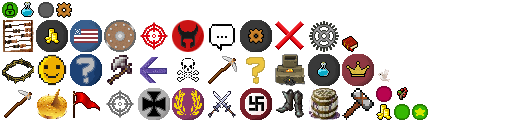
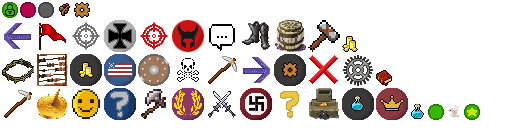
ChatboxWindow: Implement sound & SendMessageButton

Changed region(s): [[0.4688, 0.1562, 0.9375, 0.9375], [0.0, 0.0, 0.3438, 0.9375]]

diff --git a/core/src/main/java/me/rhin/openciv/ui/window/type/ChatboxWindow.java b/core/src/main/java/me/rhin/openciv/ui/window/type/ChatboxWindow.java
@@ -12,6 +12,7 @@ import me.rhin.openciv.listener.SendChatMessageListener;
 import me.rhin.openciv.shared.packet.type.SendChatMessagePacket;
 import me.rhin.openciv.ui.background.ColoredBackground;
 import me.rhin.openciv.ui.button.type.CloseWindowButton;
+import me.rhin.openciv.ui.button.type.SendMessageButton;
 import me.rhin.openciv.ui.label.CustomLabel;
 import me.rhin.openciv.ui.window.AbstractWindow;
 
@@ -21,6 +22,7 @@ public class ChatboxWindow extends AbstractWindow implements SendChatMessageList
 	private ColoredBackground coloredBackground;
 	private CloseWindowButton closeWindowButton;
 	private TextField chatTextField;
+	private SendMessageButton sendMessageButton;
 
 	public ChatboxWindow() {
 		super.setBounds(4, 20, 225, 250);
@@ -50,14 +52,17 @@ public class ChatboxWindow extends AbstractWindow implements SendChatMessageList
 			}
 		});
 
+		sendMessageButton = new SendMessageButton(chatTextField.getWidth() + 3, -1, 32, 32);
+		addActor(sendMessageButton);
+
 		// Close info buttons window
 		Civilization.getInstance().getWindowManager().toggleWindow(new InfoButtonsWindow());
 
-		for(String message : Civilization.getInstance().getChatHandler().getSentMessages()) {
+		for (String message : Civilization.getInstance().getChatHandler().getSentMessages()) {
 			System.out.println(message);
 			addMessage(message);
 		}
-		
+
 		Civilization.getInstance().getEventManager().addListener(SendChatMessageListener.class, this);
 	}
 
@@ -93,19 +98,19 @@ public class ChatboxWindow extends AbstractWindow implements SendChatMessageList
 		return false;
 	}
 
-	private void sendMessage() {
+	@Override
+	public void onSentChatMessage(SendChatMessagePacket packet) {
+		String messageText = packet.getPlayerName() + ": " + packet.getMessage();
+		addMessage(messageText);
+	}
+
+	public void sendMessage() {
 		String message = chatTextField.getText();
 		SendChatMessagePacket packet = new SendChatMessagePacket();
 		packet.setMessage(message);
 		Civilization.getInstance().getNetworkManager().sendPacket(packet);
 
 		chatTextField.setText("");
-	}
-
-	@Override
-	public void onSentChatMessage(SendChatMessagePacket packet) {
-		String messageText = packet.getPlayerName() + ": " + packet.getMessage();
-		addMessage(messageText);
 	}
 
 	public void addMessage(String messageText) {

diff --git a/core/src/main/java/me/rhin/openciv/ui/button/type/SendMessageButton.java b/core/src/main/java/me/rhin/openciv/ui/button/type/SendMessageButton.java
@@ -4,24 +4,21 @@ import com.badlogic.gdx.graphics.g2d.Batch;
 import com.badlogic.gdx.graphics.g2d.Sprite;
 
 import me.rhin.openciv.asset.TextureEnum;
-import me.rhin.openciv.game.notification.AbstractNotification;
 import me.rhin.openciv.ui.button.Button;
+import me.rhin.openciv.ui.window.type.ChatboxWindow;
 
-public class ActNotificationButton extends Button {
+public class SendMessageButton extends Button {
 
-	private AbstractNotification notification;
 	private Sprite iconSprite;
 
-	public ActNotificationButton(AbstractNotification notification, float x, float y, float width, float height) {
+	public SendMessageButton(float x, float y, float width, float height) {
 		super(TextureEnum.UI_BUTTON_ICON, "", x, y, width, height);
 
 		this.hoveredSprite = TextureEnum.UI_BUTTON_ICON_HOVERED.sprite();
 		hoveredSprite.setBounds(x, y, width, height);
 
-		this.iconSprite = TextureEnum.ICON_GOTO_LEFT.sprite();
+		this.iconSprite = TextureEnum.ICON_GOTO_RIGHT.sprite();
 		iconSprite.setBounds(x + (width / 2) - (24 / 2), y + (height / 2) - (24 / 2), 24, 24);
-
-		this.notification = notification;
 	}
 
 	@Override
@@ -33,13 +30,14 @@ public class ActNotificationButton extends Button {
 	@Override
 	public void setPosition(float x, float y) {
 		super.setPosition(x, y);
-		//iconSprite.setPosition(x + getWidth() / 2 - iconSprite.getWidth() / 2,
-		//		y + getHeight() / 2 - iconSprite.getHeight() / 2);
+		// iconSprite.setPosition(x + getWidth() / 2 - iconSprite.getWidth() / 2,
+		// y + getHeight() / 2 - iconSprite.getHeight() / 2);
 	}
 
 	@Override
 	public void onClick() {
-		notification.act();
+		ChatboxWindow window = (ChatboxWindow) getParent();
+		window.sendMessage();
+		System.out.println("yo");
 	}
-
 }

diff --git a/core/src/main/java/me/rhin/openciv/networking/chat/ChatHandler.java b/core/src/main/java/me/rhin/openciv/networking/chat/ChatHandler.java
@@ -2,6 +2,8 @@ package me.rhin.openciv.networking.chat;
 
 import java.util.ArrayList;
 
+import me.rhin.openciv.Civilization;
+import me.rhin.openciv.asset.SoundEnum;
 import me.rhin.openciv.listener.SendChatMessageListener;
 import me.rhin.openciv.shared.packet.type.SendChatMessagePacket;
 
@@ -18,6 +20,8 @@ public class ChatHandler implements SendChatMessageListener {
 	public void onSentChatMessage(SendChatMessagePacket packet) {
 		String messageText = packet.getPlayerName() + ": " + packet.getMessage();
 		messages.add(messageText);
+
+		Civilization.getInstance().getSoundHandler().playEffect(SoundEnum.CHAT_NOTIFICATION);
 	}
 
 	public ArrayList<String> getSentMessages() {

diff --git a/core/src/main/java/me/rhin/openciv/asset/SoundEnum.java b/core/src/main/java/me/rhin/openciv/asset/SoundEnum.java
@@ -18,7 +18,8 @@ public enum SoundEnum {
 	CITY_LOSS(0.3F, SoundType.EFFECT),
 	WOOD_CHOP(0.3F, SoundType.EFFECT),
 	UNIT_COMBAT(0.20F, SoundType.EFFECT),
-	UNIT_DEATH(0.25F, SoundType.EFFECT);
+	UNIT_DEATH(0.25F, SoundType.EFFECT),
+	CHAT_NOTIFICATION(0.75F, SoundType.EFFECT);
 
 	public enum SoundType {
 		MUSIC,

diff --git a/server/src/main/java/me/rhin/openciv/server/game/map/GameMap.java b/server/src/main/java/me/rhin/openciv/server/game/map/GameMap.java
@@ -597,7 +597,7 @@ public class GameMap implements MapRequestListener {
 		}
 
 		// Spawn barbarians
-		int campAmount = 8 * (mapSize + 1);
+		int campAmount = 5 * (mapSize + 1);
 		for (int i = 0; i < campAmount; i++) {
 			int x = rnd.nextInt(getWidth());
 			int y = rnd.nextInt(getHeight());

diff --git a/core/src/main/java/me/rhin/openciv/asset/TextureEnum.java b/core/src/main/java/me/rhin/openciv/asset/TextureEnum.java
@@ -110,7 +110,8 @@ public enum TextureEnum {
 	ICON_UNTARGET,
 	ICON_CHOP,
 	ICON_PASTURE,
-	ICON_GOTO,
+	ICON_GOTO_LEFT,
+	ICON_GOTO_RIGHT,
 	ICON_CANCEL,
 	ICON_QUESTION,
 	ICON_SHIELD,
